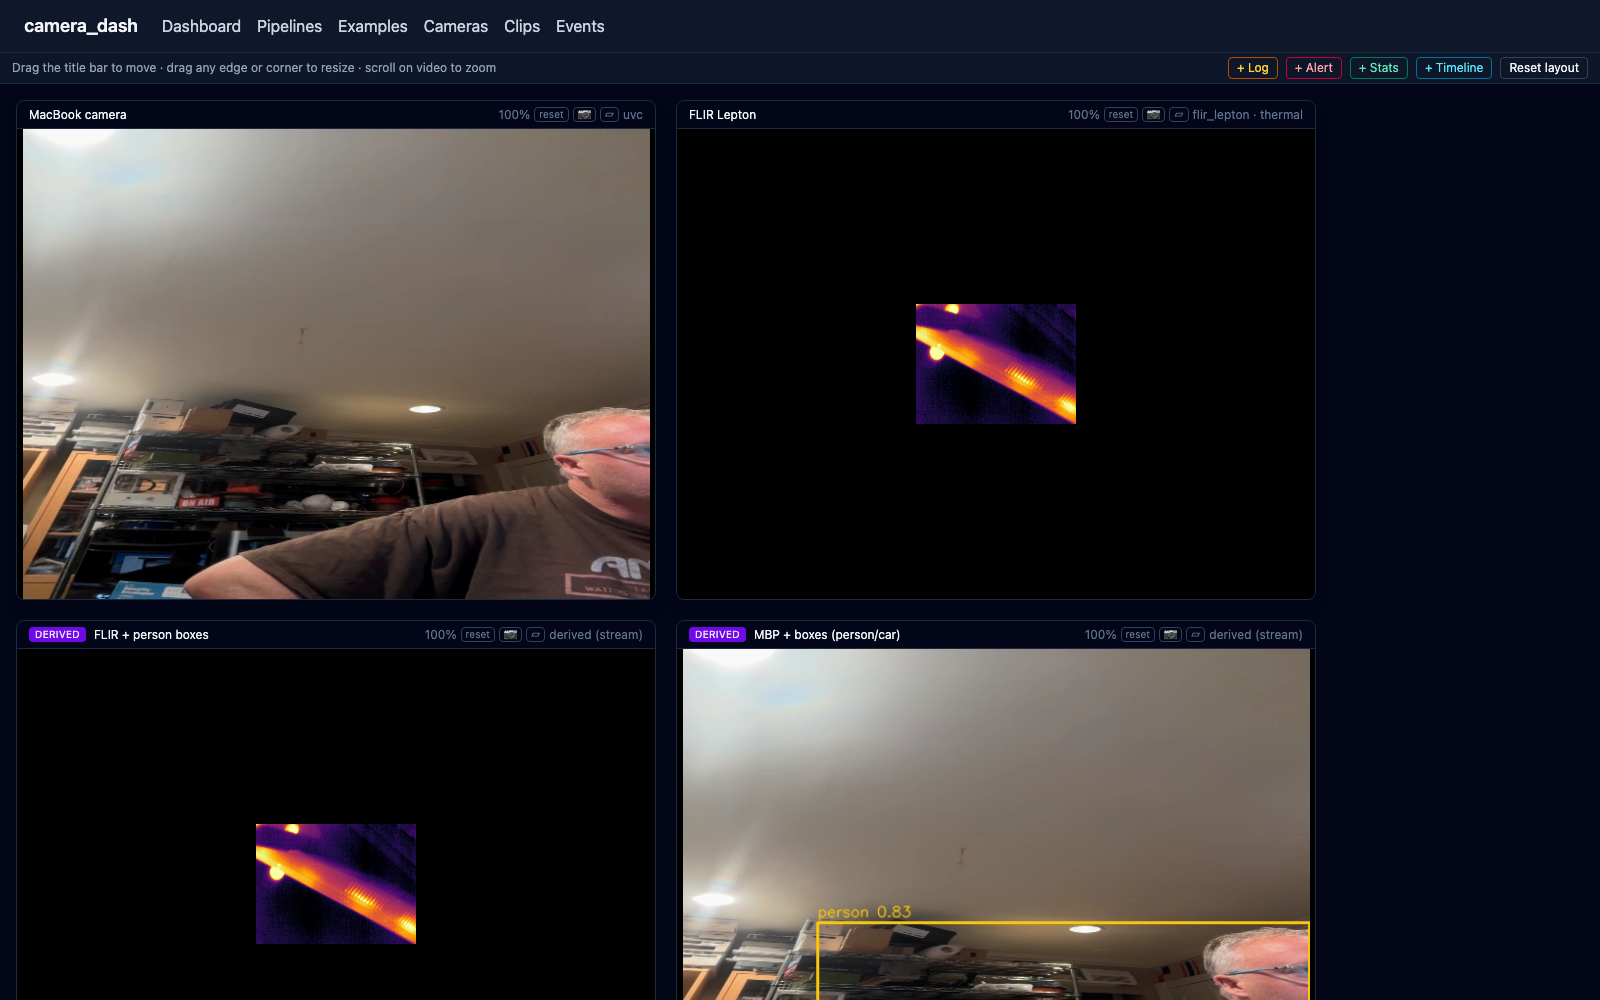
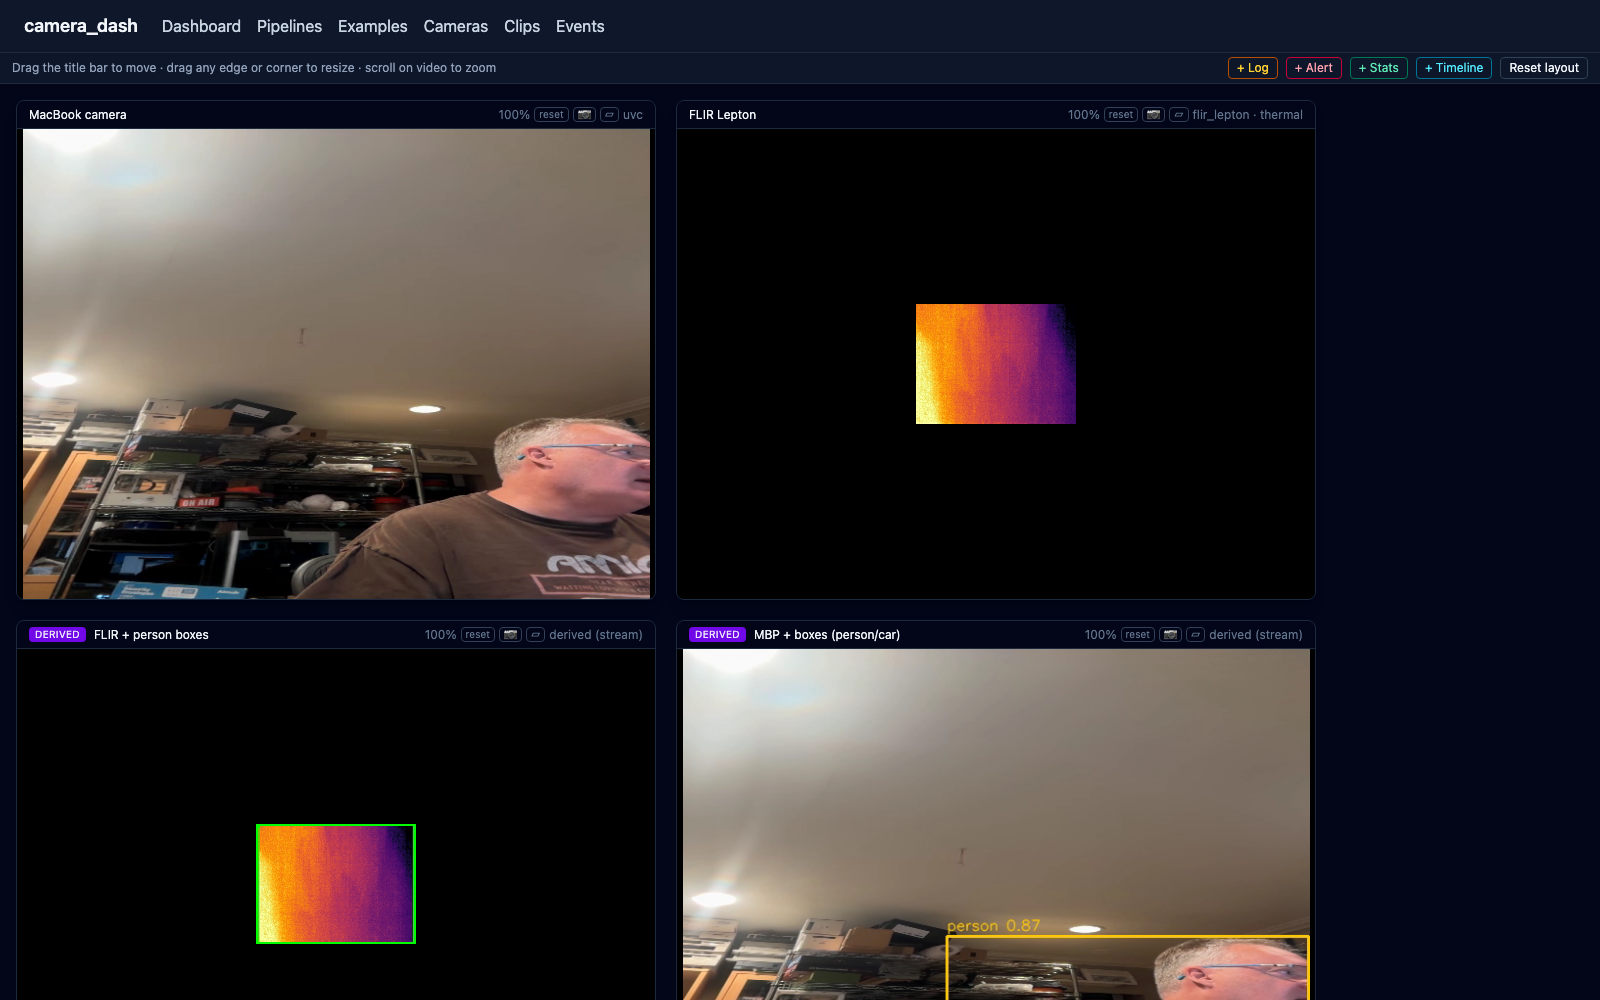
flir: enhance temperature overlay (pins, frame stats, AGC warning)
The radiometric-WS-backed temperature overlay was already wired but easy to
miss as a hover-only tooltip. Made it much more obvious:

  - Always-visible frame stats (min/max/center °C) in the top-left
  - Click anywhere on the FLIR tile to drop a pin; pins persist in
    localStorage and auto-update their temperatures as new frames arrive
  - Crosshair lines + temperature readout follow the cursor
  - AGC-mode detection: if the radiometric matrix's range falls outside
    plausible thermal scene values (~22000..47500 centi-K), we know the
    PureThermal isn't in radiometric mode. Show a warning + link to the
    GroupGets app instead of garbage temperatures.
  - 'clear N pins' button when one or more pins are set

No behavior change for cameras already in radiometric mode — same °C math,
better presentation.

diff --git a/frontend/src/dashboard/FlirOverlay.tsx b/frontend/src/dashboard/FlirOverlay.tsx
@@ -1,51 +1,211 @@
 import { RefObject, useEffect, useRef, useState } from "react";
 import { radiometricSubscribe } from "../api/client";
 
+type Pin = { x: number; y: number; celsius: number; raw: number; ts: number };
+type Stats = { min: number; max: number; center: number; rawMin: number; rawMax: number };
+
+const PIN_STORAGE_PREFIX = "camera_dash.flir.pins.";
+
+function ck2c(centiK: number): number {
+  return centiK / 100 - 273.15;
+}
+
+/**
+ * Heuristic: if the matrix's centi-Kelvin range is outside the plausible thermal
+ * scene range (~ -40°C to 200°C ≈ centi-K 23000..47000), assume the camera is
+ * in AGC mode (auto-stretched 14-bit counts, not real radiometric).
+ */
+function looksRadiometric(stats: Stats): boolean {
+  return stats.rawMin > 22000 && stats.rawMax < 47500;
+}
+
 export default function FlirOverlay({
   cameraId,
-  videoRef,
+  // videoRef intentionally accepted but unused — keeps the existing call site stable
+  videoRef: _videoRef,
 }: {
   cameraId: string;
   videoRef: RefObject<HTMLVideoElement>;
 }) {
   const matrixRef = useRef<{ w: number; h: number; data: Uint16Array } | null>(null);
-  const containerRef = useRef<HTMLDivElement>(null);
-  const [hover, setHover] = useState<{ x: number; y: number; celsius: number } | null>(null);
+  const [hover, setHover] = useState<{ x: number; y: number; celsius: number; raw: number } | null>(null);
+  const [pins, setPins] = useState<Pin[]>(() => {
+    try {
+      return JSON.parse(localStorage.getItem(PIN_STORAGE_PREFIX + cameraId) || "[]");
+    } catch { return []; }
+  });
+  const [stats, setStats] = useState<Stats | null>(null);
 
+  // Subscribe to radiometric WS + maintain rolling stats
   useEffect(() => {
     return radiometricSubscribe(cameraId, (w, h, data) => {
       matrixRef.current = { w, h, data };
+      // Frame stats — only recompute every ~250ms to avoid React thrashing
+      const now = performance.now();
+      if (!(window as any).__flirStatsLast || now - (window as any).__flirStatsLast > 250) {
+        (window as any).__flirStatsLast = now;
+        let mn = data[0], mx = data[0];
+        for (let i = 1; i < data.length; i++) {
+          const v = data[i];
+          if (v < mn) mn = v;
+          else if (v > mx) mx = v;
+        }
+        const cx = Math.floor(w / 2), cy = Math.floor(h / 2);
+        const center = data[cy * w + cx];
+        setStats({
+          rawMin: mn, rawMax: mx,
+          min: ck2c(mn), max: ck2c(mx), center: ck2c(center),
+        });
+      }
     });
   }, [cameraId]);
 
-  function onMove(e: React.MouseEvent<HTMLDivElement>) {
-    const m = matrixRef.current;
-    const v = videoRef.current;
-    if (!m || !v) return;
+  // Refresh pinned points' temperatures as new frames arrive
+  useEffect(() => {
+    if (pins.length === 0) return;
+    const t = setInterval(() => {
+      const m = matrixRef.current;
+      if (!m) return;
+      setPins((prev) => prev.map((p) => {
+        const mx = Math.min(m.w - 1, Math.max(0, Math.floor(p.x * m.w)));
+        const my = Math.min(m.h - 1, Math.max(0, Math.floor(p.y * m.h)));
+        const raw = m.data[my * m.w + mx];
+        return { ...p, raw, celsius: ck2c(raw) };
+      }));
+    }, 500);
+    return () => clearInterval(t);
+  }, [pins.length]);
+
+  function eventToFrac(e: React.MouseEvent<HTMLDivElement>): { px: number; py: number; cx: number; cy: number } {
     const rect = (e.currentTarget as HTMLDivElement).getBoundingClientRect();
     const px = (e.clientX - rect.left) / rect.width;
     const py = (e.clientY - rect.top) / rect.height;
+    return { px, py, cx: e.clientX - rect.left, cy: e.clientY - rect.top };
+  }
+
+  function onMove(e: React.MouseEvent<HTMLDivElement>) {
+    const m = matrixRef.current;
+    if (!m) return;
+    const { px, py, cx, cy } = eventToFrac(e);
     const mx = Math.min(m.w - 1, Math.max(0, Math.floor(px * m.w)));
     const my = Math.min(m.h - 1, Math.max(0, Math.floor(py * m.h)));
-    const centiK = m.data[my * m.w + mx];
-    const celsius = centiK / 100 - 273.15;
-    setHover({ x: e.clientX - rect.left, y: e.clientY - rect.top, celsius });
+    const raw = m.data[my * m.w + mx];
+    setHover({ x: cx, y: cy, celsius: ck2c(raw), raw });
   }
+
+  function onClick(e: React.MouseEvent<HTMLDivElement>) {
+    e.stopPropagation();
+    const m = matrixRef.current;
+    if (!m) return;
+    const { px, py } = eventToFrac(e);
+    const mx = Math.min(m.w - 1, Math.max(0, Math.floor(px * m.w)));
+    const my = Math.min(m.h - 1, Math.max(0, Math.floor(py * m.h)));
+    const raw = m.data[my * m.w + mx];
+    const next: Pin[] = [...pins, { x: px, y: py, celsius: ck2c(raw), raw, ts: Date.now() }];
+    setPins(next);
+    localStorage.setItem(PIN_STORAGE_PREFIX + cameraId, JSON.stringify(next));
+  }
+
+  function removePin(i: number, e: React.MouseEvent) {
+    e.stopPropagation();
+    const next = pins.filter((_, j) => j !== i);
+    setPins(next);
+    localStorage.setItem(PIN_STORAGE_PREFIX + cameraId, JSON.stringify(next));
+  }
+
+  function clearPins(e: React.MouseEvent) {
+    e.stopPropagation();
+    setPins([]);
+    localStorage.removeItem(PIN_STORAGE_PREFIX + cameraId);
+  }
+
+  const isCalibrated = stats ? looksRadiometric(stats) : true;
 
   return (
     <div
-      ref={containerRef}
-      className="pointer-events-auto absolute inset-0"
+      className="pointer-events-auto absolute inset-0 cursor-crosshair"
       onMouseMove={onMove}
       onMouseLeave={() => setHover(null)}
+      onClick={onClick}
     >
-      {hover && (
-        <div
-          className="pointer-events-none absolute rounded bg-black/70 px-2 py-1 text-xs text-white"
-          style={{ left: hover.x + 12, top: hover.y + 12 }}
-        >
-          {hover.celsius.toFixed(1)}°C
+      {/* Always-visible frame stats (top-left) */}
+      {stats && (
+        <div className="pointer-events-none absolute left-1 top-1 rounded bg-black/70 px-2 py-1 text-[10px] font-mono text-white shadow">
+          {isCalibrated ? (
+            <>
+              <div>min {stats.min.toFixed(1)}°C · max {stats.max.toFixed(1)}°C</div>
+              <div>center {stats.center.toFixed(1)}°C</div>
+            </>
+          ) : (
+            <>
+              <div className="text-amber-300">⚠ AGC mode — raw counts (no °C)</div>
+              <div className="text-slate-300">range {stats.rawMin}..{stats.rawMax}</div>
+            </>
+          )}
         </div>
+      )}
+
+      {/* AGC warning banner */}
+      {stats && !isCalibrated && (
+        <a
+          href="https://github.com/groupgets/purethermal1-uvc-capture"
+          target="_blank"
+          rel="noreferrer"
+          onClick={(e) => e.stopPropagation()}
+          className="pointer-events-auto absolute bottom-1 left-1 right-1 rounded bg-amber-900/80 px-2 py-1 text-[10px] text-amber-100 hover:bg-amber-900"
+        >
+          PureThermal is in AGC mode. Click to set radiometric mode via GroupGets app.
+        </a>
+      )}
+
+      {/* Hover crosshair + tooltip */}
+      {hover && (
+        <>
+          <div
+            className="pointer-events-none absolute h-px bg-cyan-300/60"
+            style={{ left: 0, right: 0, top: hover.y }}
+          />
+          <div
+            className="pointer-events-none absolute w-px bg-cyan-300/60"
+            style={{ top: 0, bottom: 0, left: hover.x }}
+          />
+          <div
+            className="pointer-events-none absolute rounded bg-black/80 px-2 py-1 font-mono text-xs text-white shadow"
+            style={{ left: hover.x + 12, top: hover.y + 12 }}
+          >
+            {isCalibrated
+              ? `${hover.celsius.toFixed(1)}°C`
+              : `raw ${hover.raw}`}
+          </div>
+        </>
+      )}
+
+      {/* Pinned points */}
+      {pins.map((p, i) => (
+        <div
+          key={i}
+          className="pointer-events-auto absolute -translate-x-1/2 -translate-y-1/2"
+          style={{ left: `${p.x * 100}%`, top: `${p.y * 100}%` }}
+          onClick={(e) => removePin(i, e)}
+          title="click to remove"
+        >
+          <div className="flex items-center gap-1">
+            <div className="h-2 w-2 rounded-full bg-rose-400 ring-2 ring-rose-300" />
+            <span className="rounded bg-rose-900/90 px-1.5 py-px text-[10px] font-mono text-white">
+              {isCalibrated ? `${p.celsius.toFixed(1)}°C` : p.raw}
+            </span>
+          </div>
+        </div>
+      ))}
+
+      {/* Clear-pins button */}
+      {pins.length > 0 && (
+        <button
+          onClick={clearPins}
+          className="pointer-events-auto absolute right-1 top-1 rounded border border-slate-700 bg-black/70 px-1.5 py-0.5 text-[10px] text-slate-300 hover:bg-slate-800"
+        >
+          clear {pins.length} pin{pins.length === 1 ? "" : "s"}
+        </button>
       )}
     </div>
   );